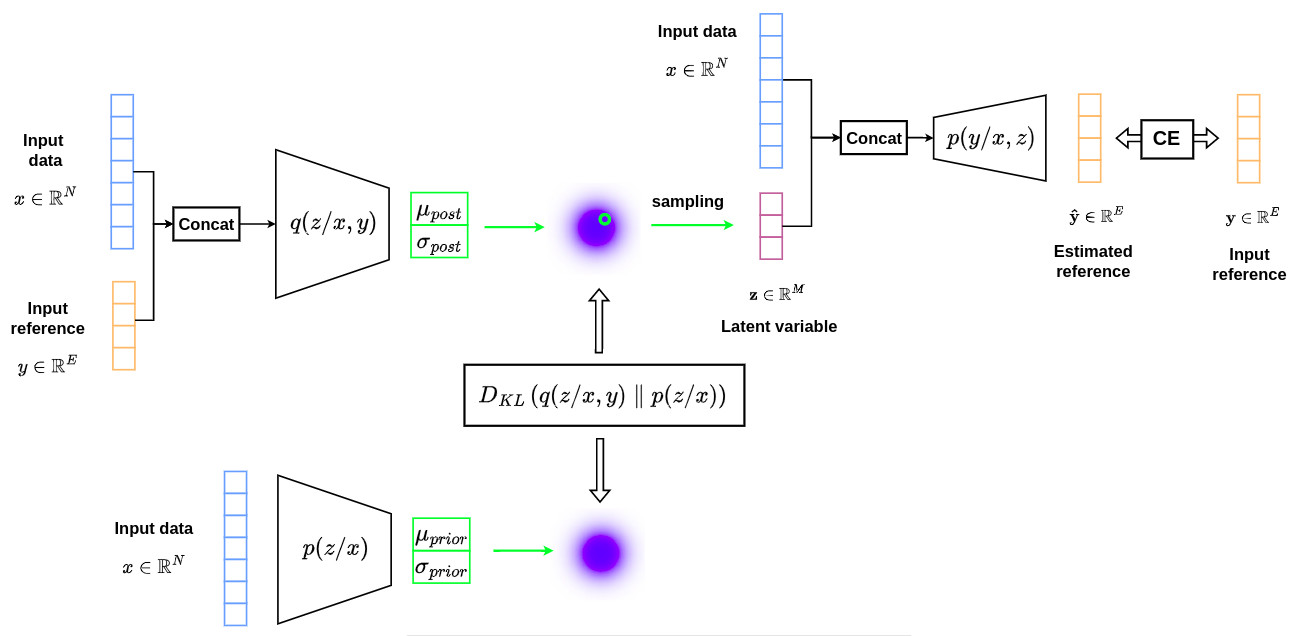
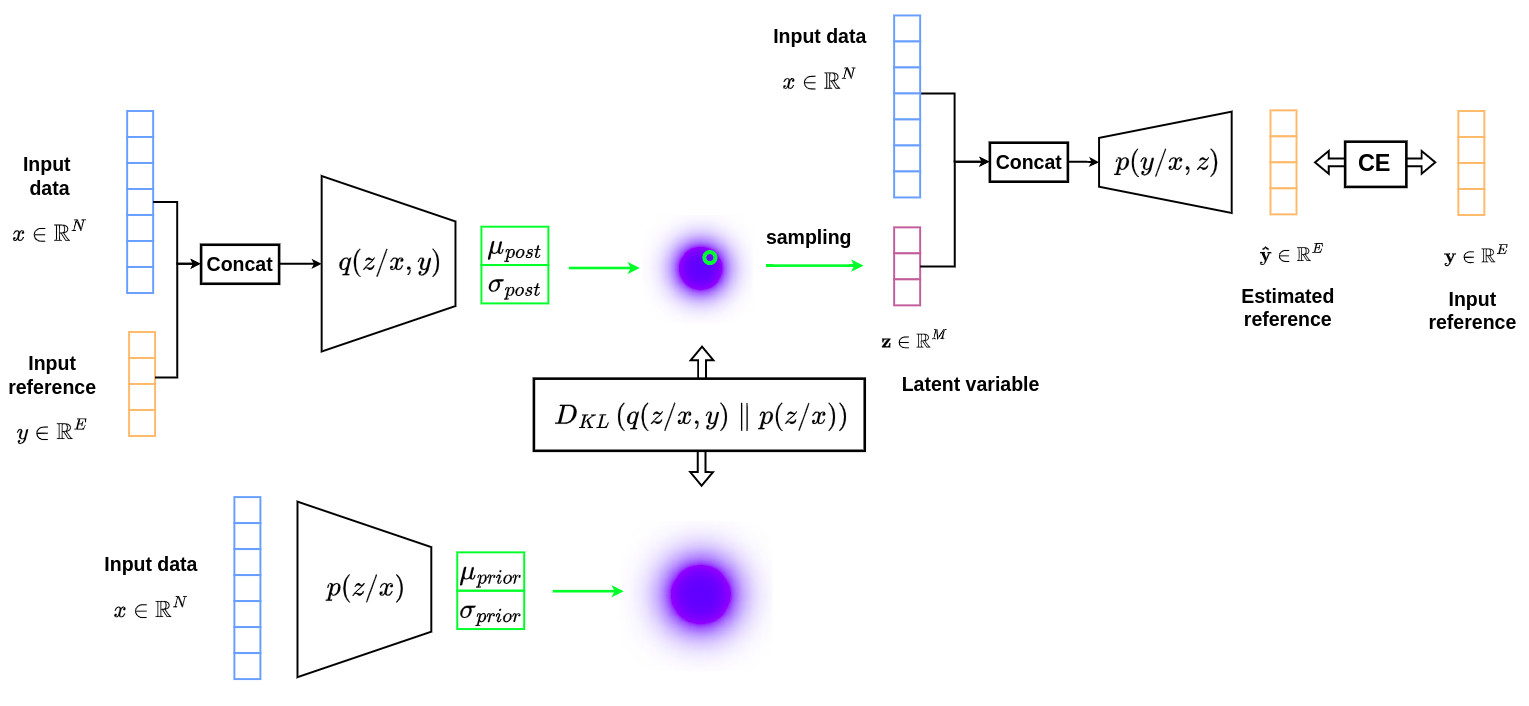
stat workong on the context

diff --git a/collections/_tutorials/2022-09-12-tutorial-cvae.md b/collections/_tutorials/2022-09-12-tutorial-cvae.md
@@ -33,4 +33,35 @@ In comparison, the graph below shows the overall strategy used in the CVAE forma
 
 ![](/collections/images/cvae/cvae_final_representation.jpg)
 
+&nbsp;
+
+## **Variational inference**
+
+### Key concept
+
+The goal of conditional variational autoencoder is to approximate a distribution $$p(y/x)$$ through a latent space that captures annotator variability such that $$p(y/x,z)$$ captures multiple plausible classiication/segmentation hypothesis. The following scheme is applied:
+* for a given observation $$x$$, a set of latent variables $$z_i$$ is generated from a prior distribution $$p(z/x)$$ thanks to the sampling of the corresponding latent space.
+* The set of latent variables are then combined with the observation and passed through the conditional generative process $$p(y/x,z)$$ to generate samples from the distribution $$y$$.
+* The resulting predictive distribution is finally obtained through the following expression:
+
+$$p(y/x) = \int_z{p(y/x,z) \cdot p(z/x) \,dz}$$
+
+&nbsp;
+
+Based on the Bayes' theorem, the estimation of predictive distribution $$p(y/x)$$ will require the computation of $$p(z/x,y)$$. Unfortunatly, it can be shown that this posterior distribution is intractable and that the computation of $$p(z/x,y)$$ can not be optimized directly. 
+
+>The perdictive distribution $$p(y/x)$$ can be optimized through the evidence lower bound (ELBO), similar to the [VAE](https://creatis-myriad.github.io/tutorials/2022-09-12-tutorial-vae.html).
+
+&nbsp;
+
+In the conditional VAE formalism, $$p(z/x,y)$$ is approximated by a Gaussian distribution $$q(z/x,y)$$ whose mean $$\mu_{post}$$ and covariance $$\sigma_{post}$$ are defined by two functions $$g(x,y)$$ and $$h(x,y)$$.
+
+$$q(z/x,y) = \mathcal{N}\left(g(x,y),h(x,y)\right)$$
+
+
+We thus have a family of candidates for variational inference and need to find the best approximation among this family by minimising the KL divergence between the approximation $$q(z/x,y)$$ and the target $$p(z/x,y)$$. In other words, we are looking for the optimal $$g^∗$$ and $$h^∗$$ such that:
+
+$$\left(g^*,h^*\right) = \underset{(g,h)}{\arg\min} \,\,\, D_{KL}\left(q(z/x,y) \parallel p(z/x,y) \right)$$
+
+
 
